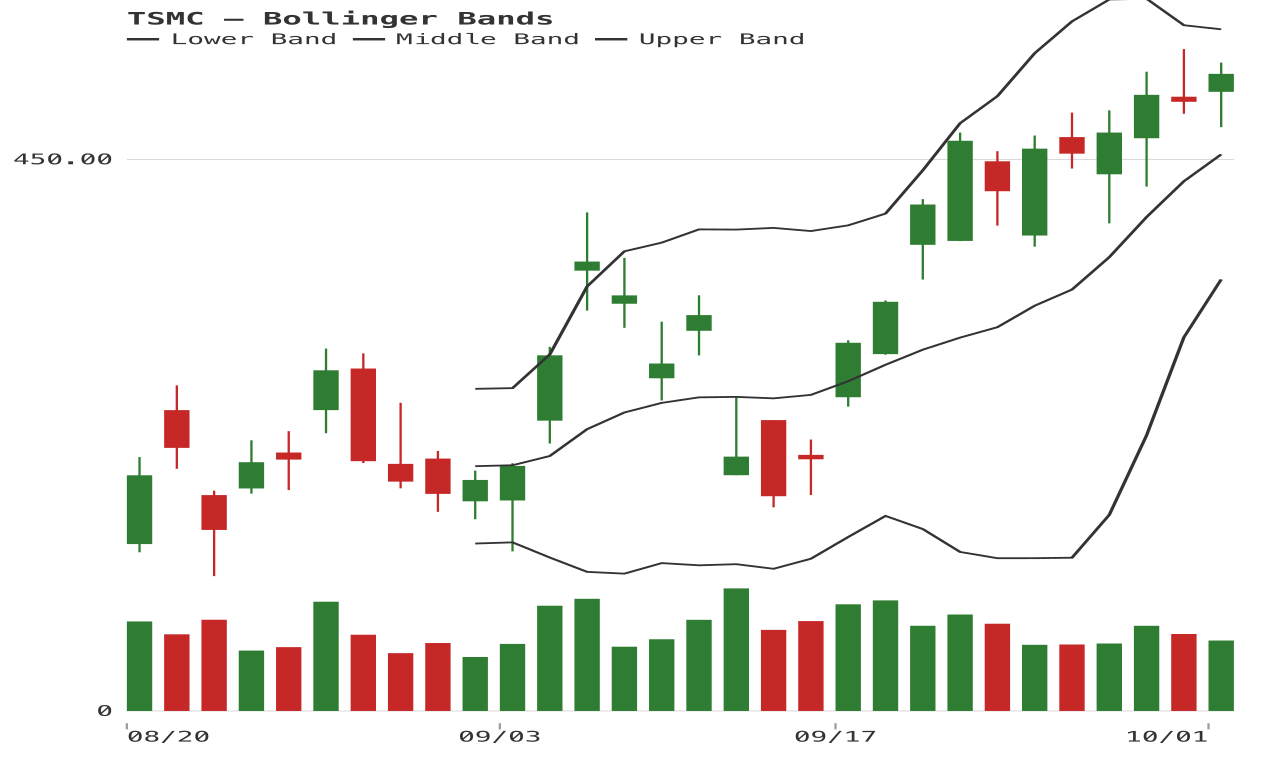
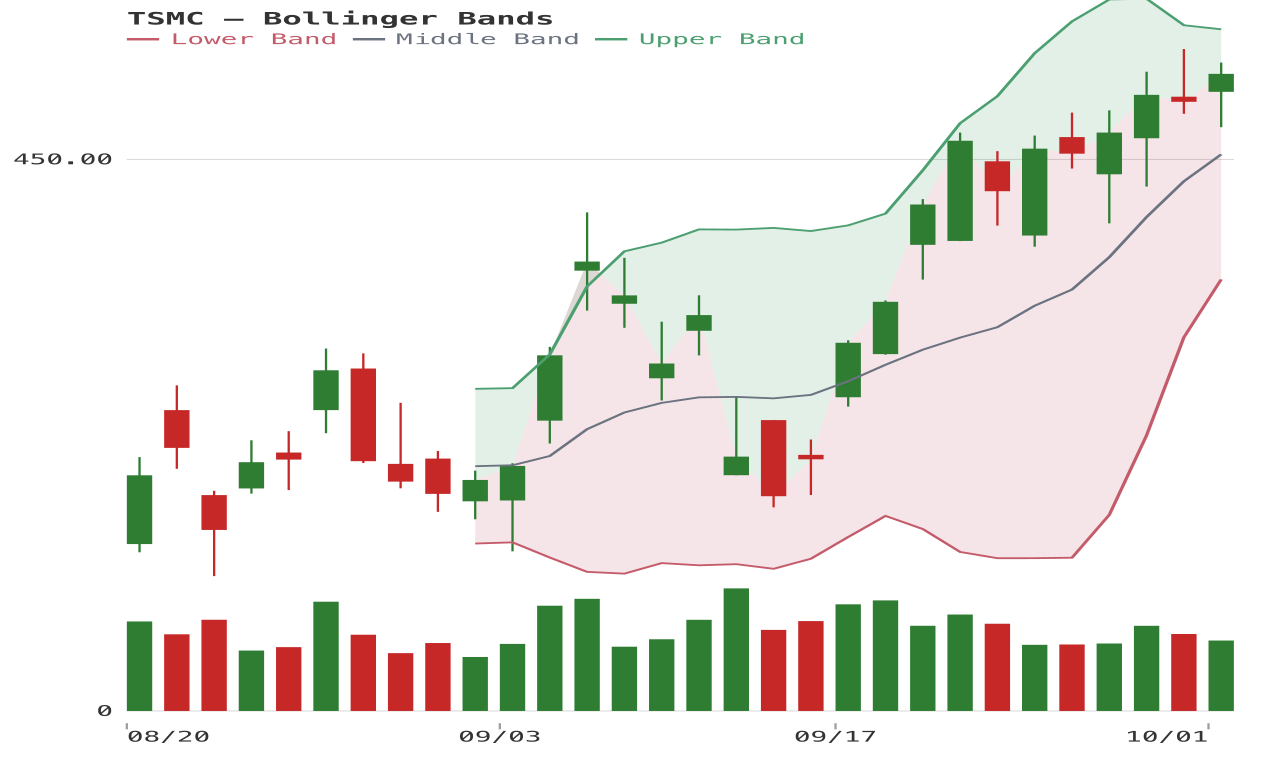
feat: configure indicator colors and band fills

diff --git a/README.md b/README.md
@@ -242,6 +242,17 @@ calculations can be supplied externally through `indicator-series/v1`.
   direct `:fn`. VWAP conventionally resets daily — pass one session's
   bars, not a multi-day history, unless you deliberately want a running
   VWAP across the whole window.
+- Indicator overlay and oscillator specs accept per-series `:face`
+  values for text and SVG, or an SVG `:color` string. Customize fallback
+  SVG series colors with `financial-chart-svg-series-colors`; customize
+  generic text series faces with `financial-chart-multi-text-faces`.
+- Bollinger regions from close to the upper and lower bands can be shaded
+  independently with `financial-chart-indicator-bands` and
+  `financial-chart-bollinger-band-spec`. Each region has a configurable
+  color and opacity; SVG defaults are
+  `financial-chart-svg-band-upper-fill`,
+  `financial-chart-svg-band-lower-fill`, and
+  `financial-chart-svg-band-fill-opacity`.
 - `financial-chart-rsi` `(bars &optional period field)` — simple-average
   RSI (default period 14), values in [0,100]. **Not** on the price
   scale — do not pass it straight to `financial-chart-indicators`, it

diff --git a/docs/indicator-examples.md b/docs/indicator-examples.md
@@ -31,12 +31,17 @@ windows so the lines are visible in the 30-bar sample.
 ### Bollinger Bands
 
 The built-in returns named lower, middle, and upper series. The chart API
-keeps those outputs aligned to the source bars.
+keeps those outputs aligned to the source bars. The two filled regions
+between close and the upper/lower bands use independent configurable colors.
 
 ![TSMC candlesticks with Bollinger Bands](images/indicators/bollinger-bands.png)
 
 ```elisp
 (financial-chart-indicator-evaluate 'bollinger-bands bars 10 2)
+
+(setq financial-chart-indicator-bands
+      (list (financial-chart-bollinger-band-spec
+             20 2 "#4c9f70" "#c45b6a" 0.16)))
 ```
 
 ## Oscillators and momentum
@@ -125,4 +130,3 @@ contract without adding provider code to the chart package:
 Use `financial-chart-list-indicators` to discover registered calculators.
 The complete local calculator set includes moving averages, momentum,
 oscillators, volatility/range, trend-strength, and volume-flow families.
-
